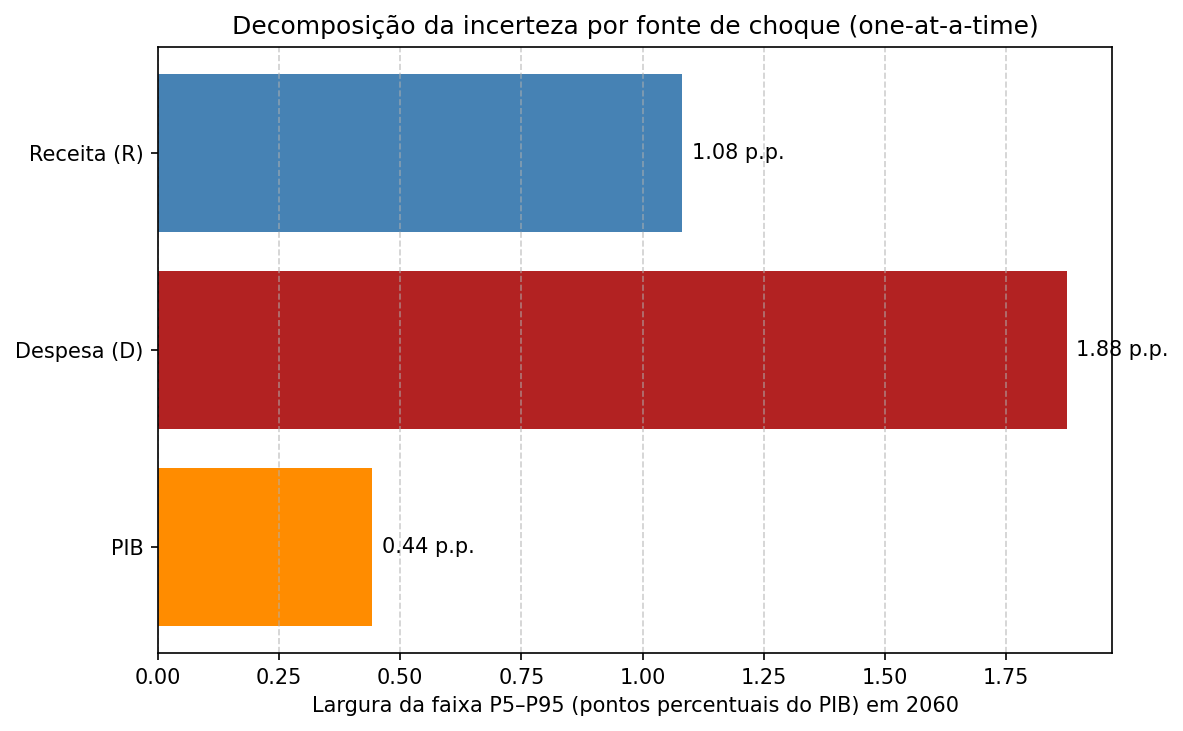
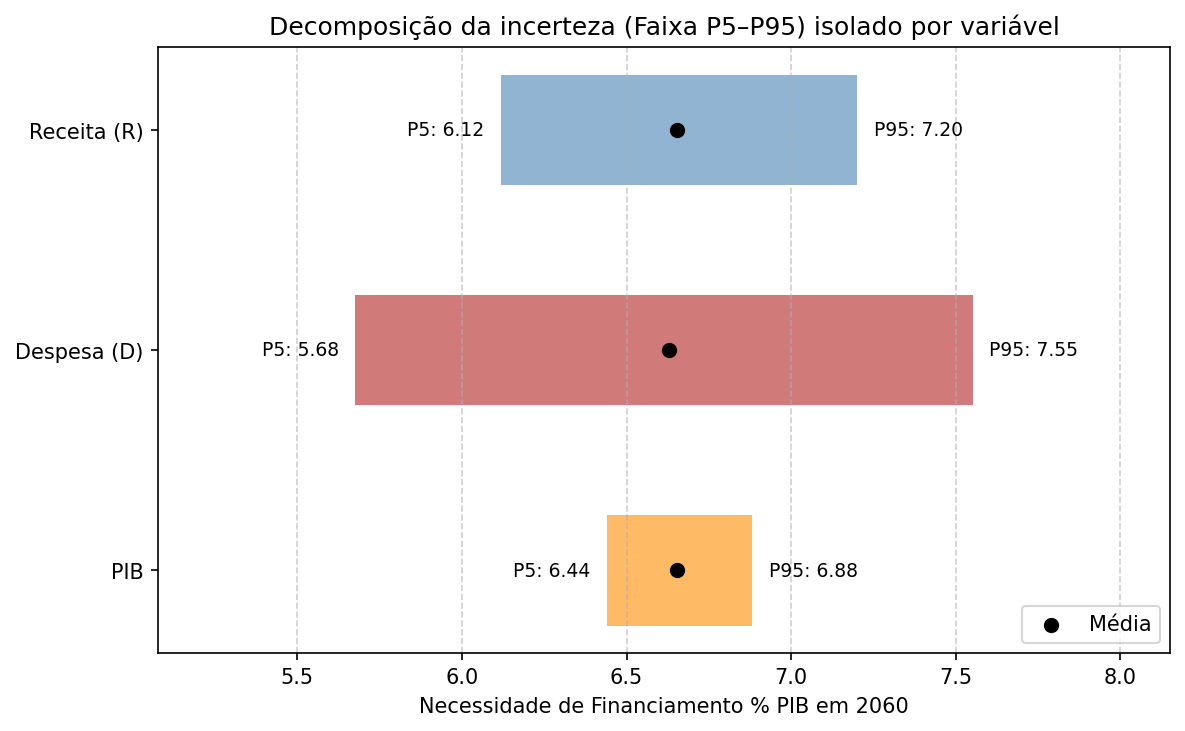
pequenas mudancas e correcoes

diff --git a/decomposicao_incerteza.py b/decomposicao_incerteza.py
@@ -98,28 +98,48 @@ larg_D,   p5_D,   p95_D   = largura_ic90(resultado_D)
 larg_PIB, p5_PIB, p95_PIB = largura_ic90(resultado_PIB)
 larg_TOT, p5_TOT, p95_TOT = largura_ic90(resultado_TOT)
 
-print(f"Ano de referência: {ano_alvo}\n")
-print(f"{'Fonte':<20}{'Largura da faixa P5–P95 (pontos percentuais do PIB) em 2060':<22}{'Largura':<12}{'% da largura total (soma OAT)'}")
-soma_larguras = larg_R + larg_D + larg_PIB
-for nome, larg, p5, p95 in [
-    ('Receita (R)',  larg_R,   p5_R,   p95_R),
-    ('Despesa (D)',  larg_D,   p5_D,   p95_D),
-    ('PIB',          larg_PIB, p5_PIB, p95_PIB),
-]:
-    pct = larg / soma_larguras * 100
-    print(f"{nome:<20}[{p5:.2f}, {p95:.2f}]{'':<8}{larg:<12.3f}{pct:.1f}%")
-print(f"\n{'Cenário completo':<20}[{p5_TOT:.2f}, {p95_TOT:.2f}]{'':<8}{larg_TOT:<12.3f}(correlacionado, não é soma direta)")
+print(f"\nAno de referência: {ano_alvo}\n")
+print(f"Necessidade de Financiamento do RGPS (% do PIB) \n")
+print(f"{'Cenário':<25}{'P5':>10}{'P95':>10}{'Largura':>12}")
+print("-" * 60)
 
-# Gráfico de barras (tipo "tornado" simplificado)
+for nome, larg, p5, p95 in [
+    ('Somente Receita (R)',  larg_R,   p5_R,   p95_R),
+    ('Somente Despesa (D)', larg_D,   p5_D,   p95_D),
+    ('Somente PIB',         larg_PIB, p5_PIB, p95_PIB),
+    ('Cenário completo',    larg_TOT, p5_TOT, p95_TOT),
+]:
+    print(f"{nome:<25}{p5:>9.2f}%{p95:>9.2f}%{larg:>11.2f} p.p.")
+
+# Gráfico tipo "tornado": barra flutuante de p5 até p95, com a média marcada
 fig, ax = plt.subplots(figsize=(8,5))
-fontes = ['PIB', 'Despesa (D)', 'Receita (R)']
-larguras = [larg_PIB, larg_D, larg_R]
-cores = ['darkorange', 'firebrick', 'steelblue']
-ax.barh(fontes, larguras, color=cores)
-for i, v in enumerate(larguras):
-    ax.text(v + 0.02, i, f'{v:.2f} p.p.', va='center')
-ax.set_xlabel('Largura da faixa P5–P95 (pontos percentuais do PIB) em 2060')
-ax.set_title('Decomposição da incerteza por fonte de choque (one-at-a-time)')
+fontes   = ['PIB', 'Despesa (D)', 'Receita (R)']
+p5_vals  = [p5_PIB,  p5_D,  p5_R]
+p95_vals = [p95_PIB, p95_D, p95_R]
+medias   = [np.mean(resultado_PIB), np.mean(resultado_D), np.mean(resultado_R)]
+cores    = ['darkorange', 'firebrick', 'steelblue']
+
+y_pos = np.arange(len(fontes))
+larguras_barra = [p95 - p5 for p5, p95 in zip(p5_vals, p95_vals)]
+
+ax.barh(y_pos, larguras_barra, left=p5_vals, color=cores, alpha=0.6, height=0.5)
+ax.scatter(medias, y_pos, color='black', zorder=3, s=40, label='Média')
+
+for i, (p5, p95, m) in enumerate(zip(p5_vals, p95_vals, medias)):
+    ax.text(p5 - 0.05, i, f'P5: {p5:.2f}', va='center', ha='right', fontsize=9)
+    ax.text(p95 + 0.05, i, f'P95: {p95:.2f}', va='center', ha='left', fontsize=9)
+
+ax.set_yticks(y_pos)
+ax.set_yticklabels(fontes)
+ax.set_xlabel('Necessidade de Financiamento % PIB em 2060')
+ax.set_title('Decomposição da incerteza (Faixa P5–P95) isolado por variável')
 ax.grid(True, axis='x', linestyle='--', alpha=0.6)
+ax.legend(loc='lower right')
+
+# margem extra nas laterais para os rótulos P5/P95 não colidirem com o eixo Y
+xmin = min(p5_vals) - 0.6
+xmax = max(p95_vals) + 0.6
+ax.set_xlim(xmin, xmax)
+
 plt.tight_layout()
 plt.savefig('decomposicao_incerteza.png', dpi=150, bbox_inches='tight')

diff --git a/simulacao.py b/simulacao.py
@@ -15,7 +15,7 @@ df_base = df_base.set_index('Exercício')
 
 sigma_frac_R   = 0.010   # 1,0% ao ano de incerteza na Receita
 sigma_frac_D   = 0.008   # 0,8% ao ano de incerteza na Despesa (mais rígida/vegetativa)
-sigma_frac_PIB = 0.035  # 1,5% ao ano de incerteza no PIB (mais volátil)
+sigma_frac_PIB = 0.0035  # 0,35% ao ano de incerteza no PIB (mais volátil)
 
 # Matriz de correlação entre os choques (ordem: R, D, PIB)
 #   R x PIB   = +0,6  -> Receita acompanha o ciclo do PIB (massa salarial)
